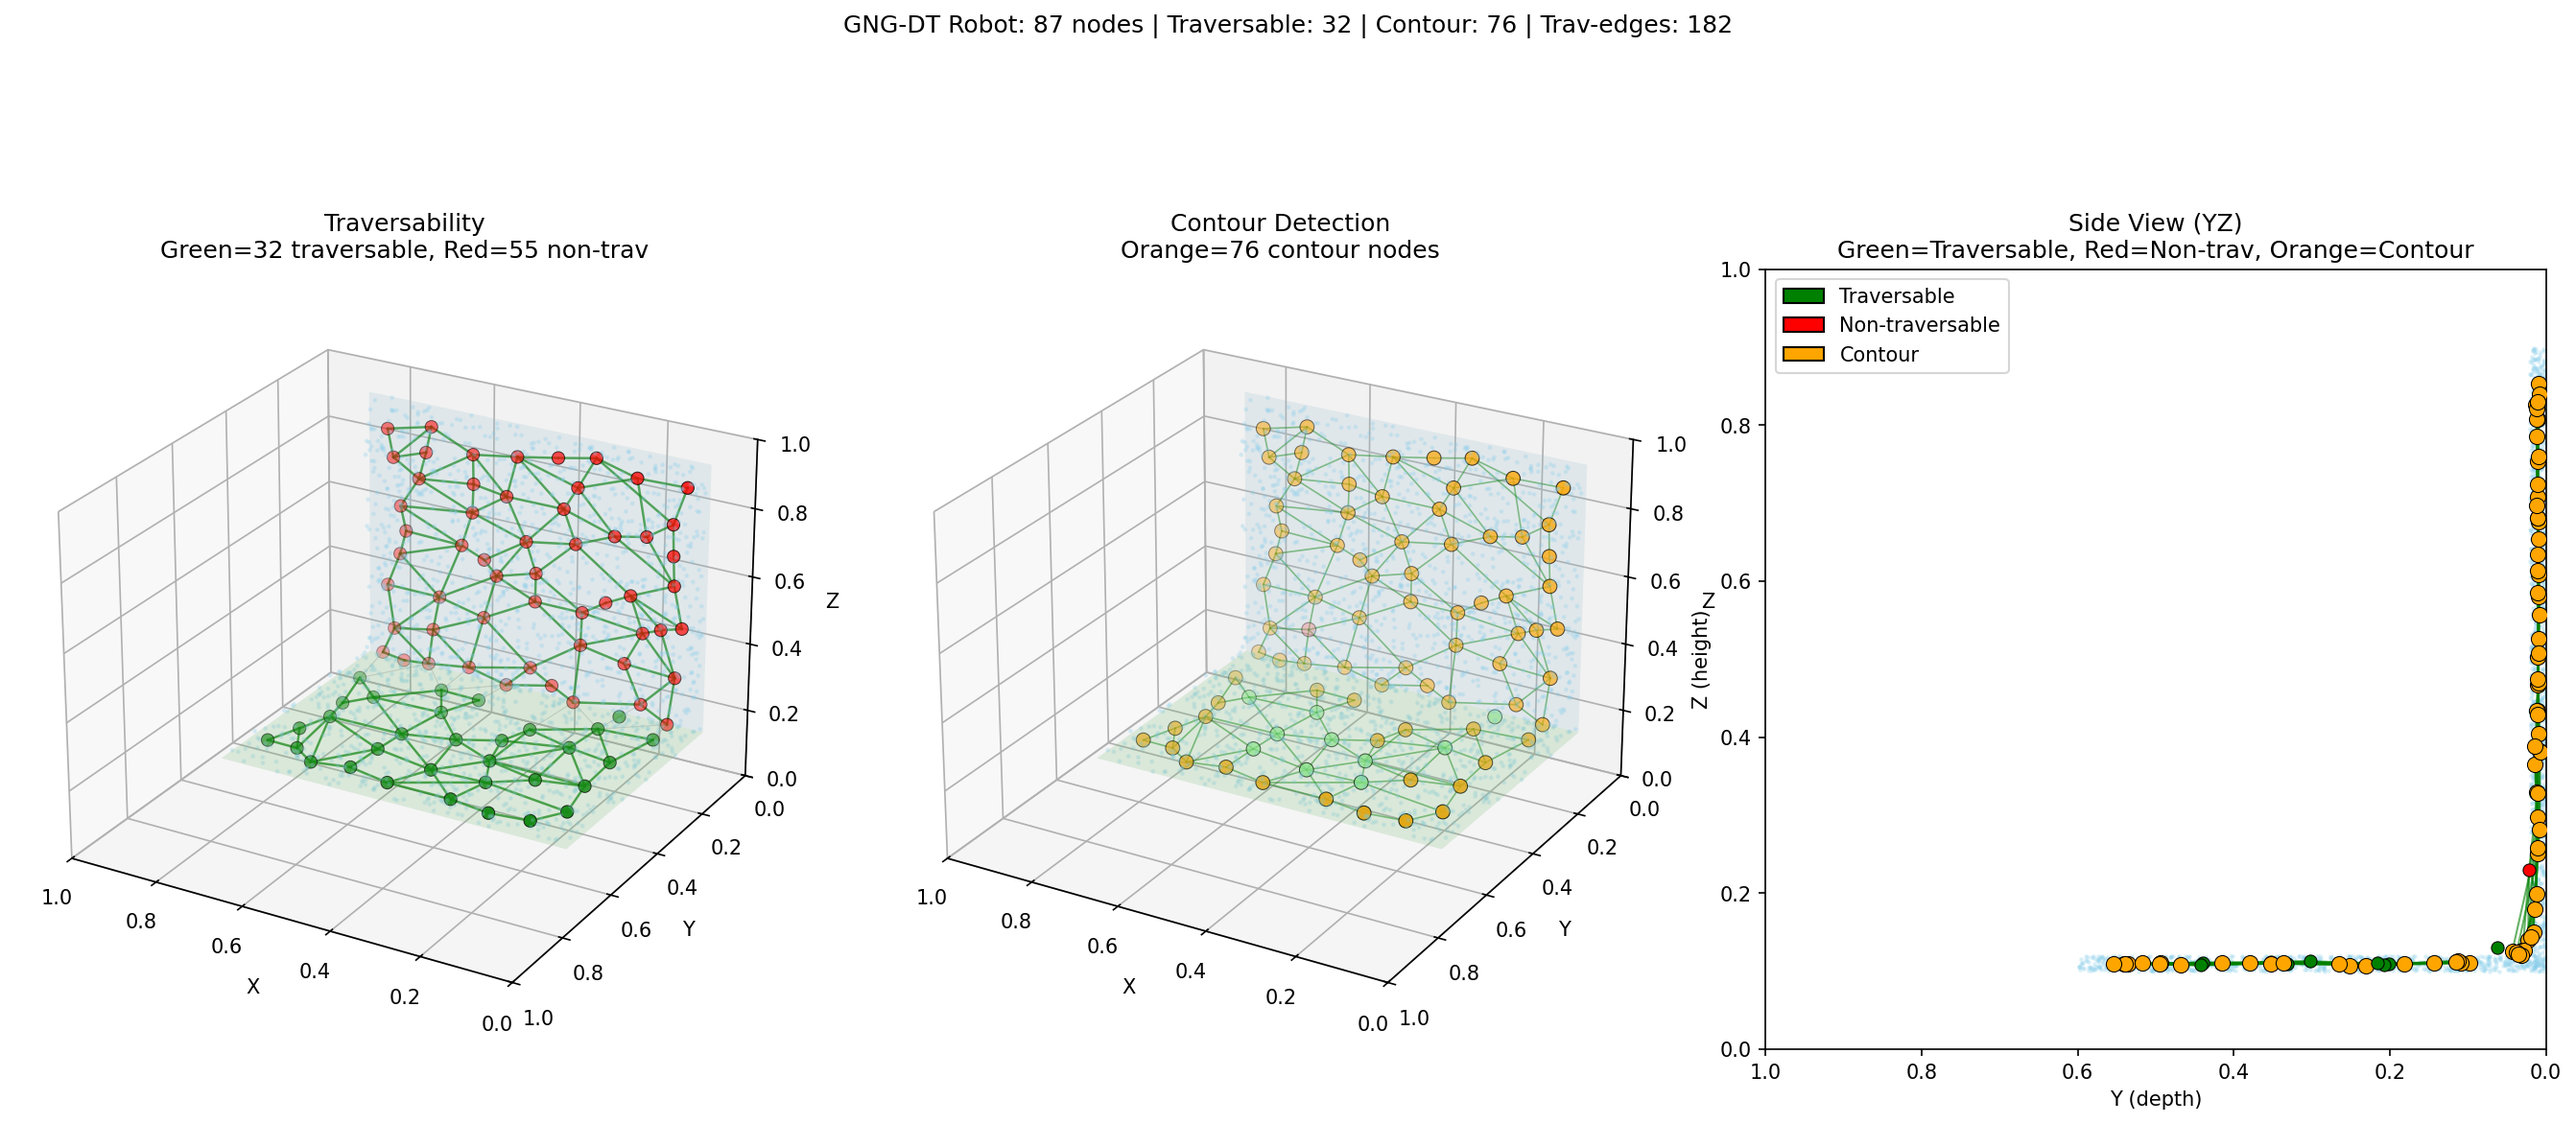
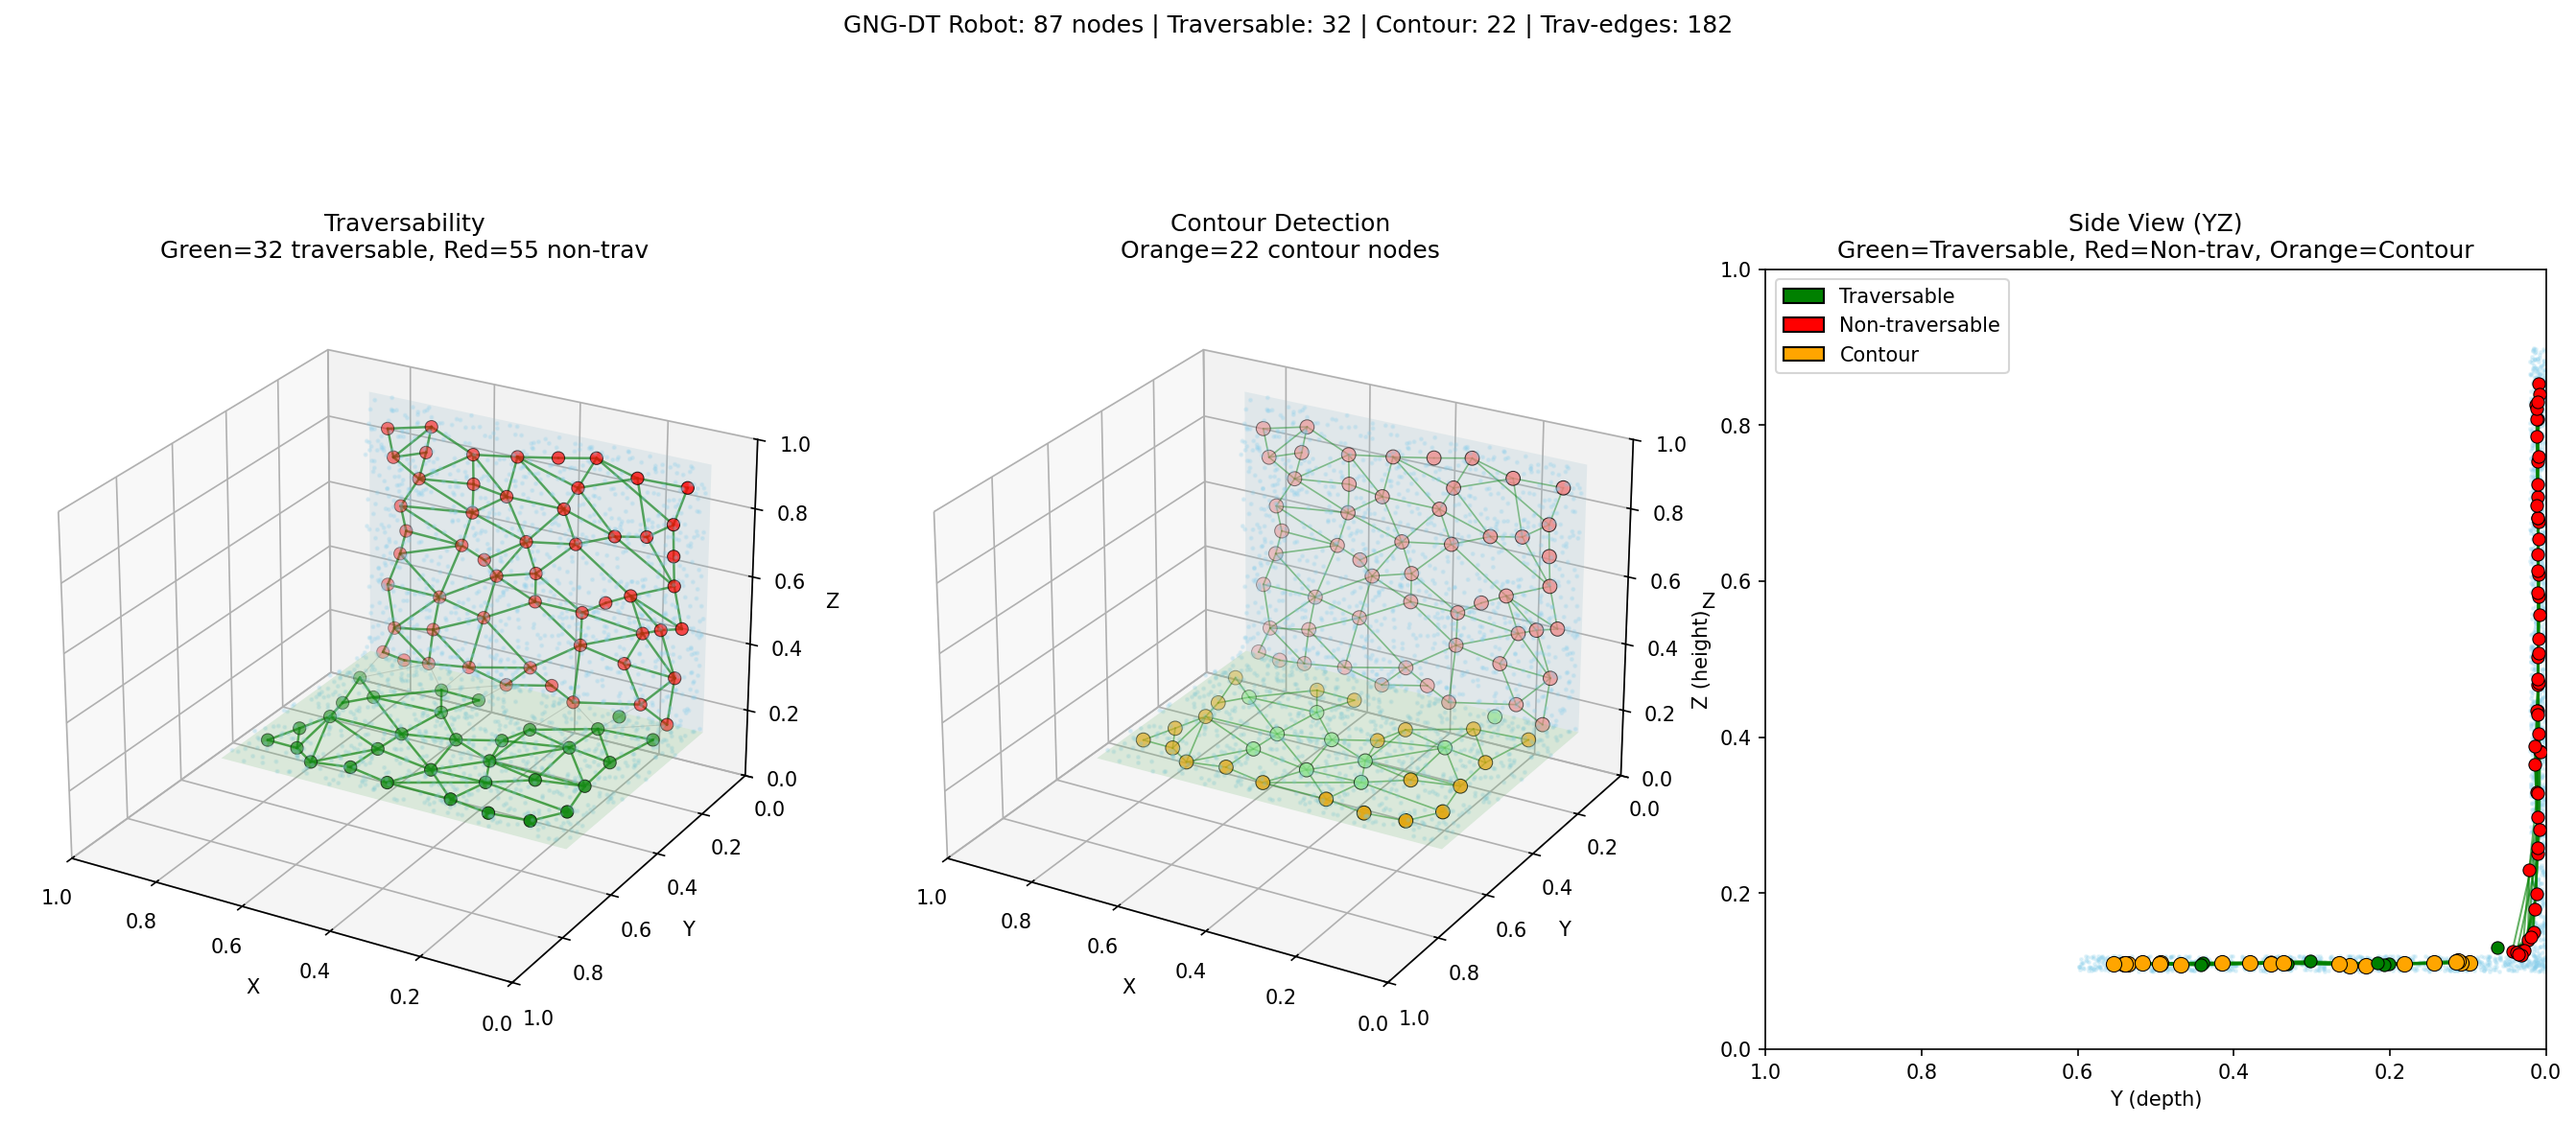
GNG-DT Robot: 輪郭検出を走行可能ノードのみに制限
contour判定をtraversability_property == 1のノードのみに適用。
走行可能領域の境界（床のエッジ）のみを輪郭として検出するように修正。

https://claude.ai/code/session_01QzArh1DbyZNaoXsmxVVzqW

diff --git a/algorithms/gng_dt/python/model_robot.py b/algorithms/gng_dt/python/model_robot.py
@@ -463,8 +463,12 @@ class GrowingNeuralGasDTRobot:
                 if self.nodes[i].contour == 0:
                     cct_s1 += 1
 
-        n1.contour = self._judge_contour(s1)
-        if cct_s1 == ct_s1 and n1.through_property == 0:
+        # Contour only applies to traversable nodes (boundary of traversable region)
+        if n1.traversability_property == 1:
+            n1.contour = self._judge_contour(s1)
+            if cct_s1 == ct_s1 and n1.through_property == 0:
+                n1.contour = 0
+        else:
             n1.contour = 0
 
         # Update s2 contour as well
@@ -477,8 +481,12 @@ class GrowingNeuralGasDTRobot:
                 if self.nodes[i].contour == 0:
                     cct_s2 += 1
 
-        n2.contour = self._judge_contour(s2)
-        if cct_s2 == ct_s2 and n2.through_property == 0:
+        # Contour only applies to traversable nodes
+        if n2.traversability_property == 1:
+            n2.contour = self._judge_contour(s2)
+            if cct_s2 == ct_s2 and n2.through_property == 0:
+                n2.contour = 0
+        else:
             n2.contour = 0
 
     def _find_two_nearest(self, position: np.ndarray) -> tuple[int, int, float, float]:
